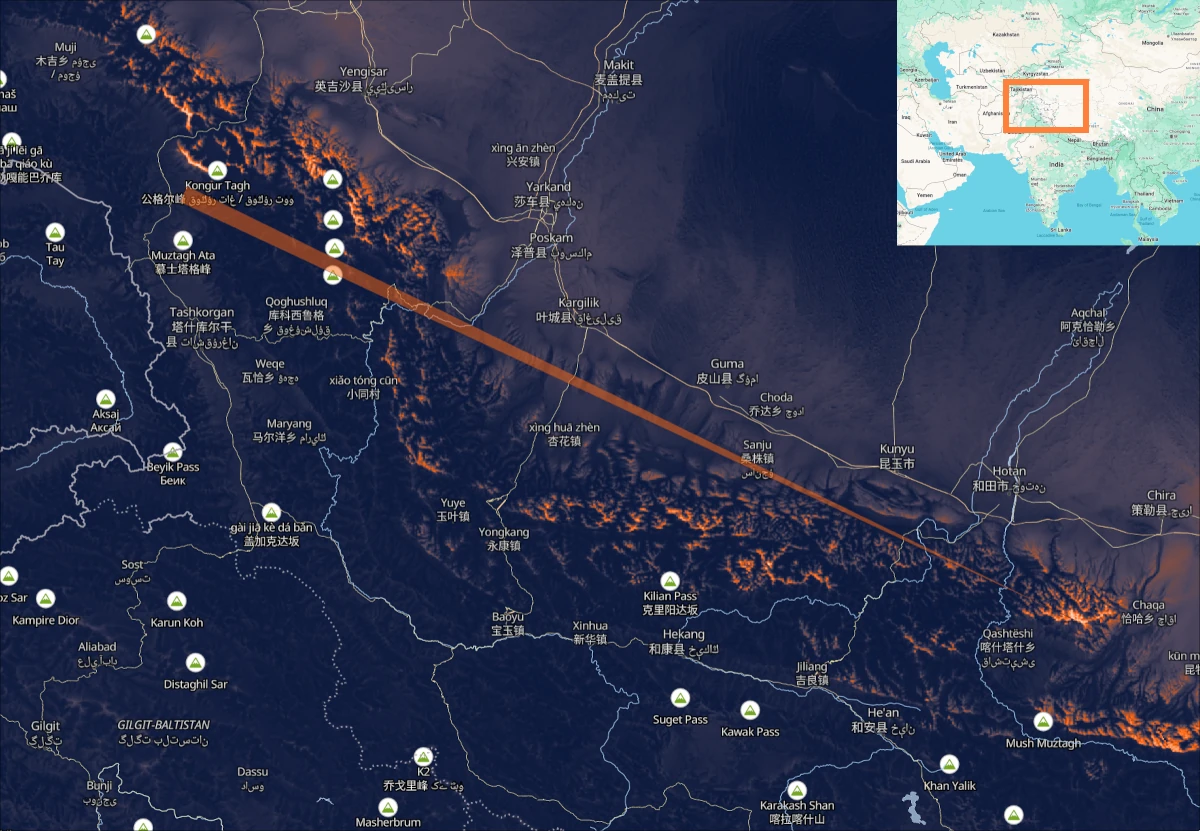
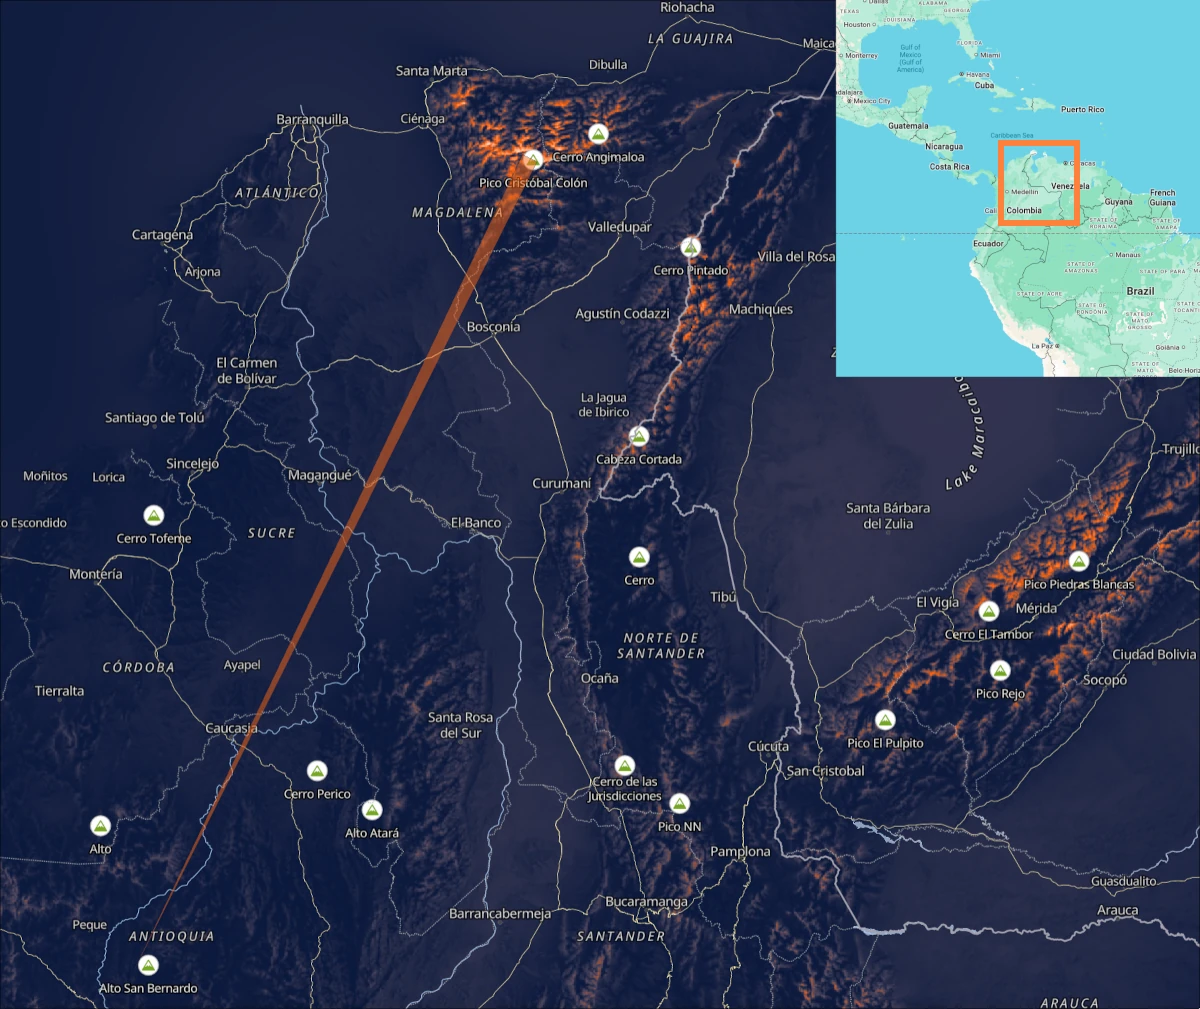
Remove extra Himalayan lines from Top 10
I think it's better to give publicity to other regions of the world.

diff --git a/website/src/TopLines.svelte b/website/src/TopLines.svelte
@@ -12,24 +12,9 @@
       '🇨🇳🇰🇬 Hindu Kush/Pik Dankova',
     ),
     new LongestLineH3(
-      new LngLat(80.29535675048828, 36.52555465698242),
-      506.8 * 1000,
-      '🇨🇳 Telkik Shan/Kongur Tagh',
-    ),
-    new LongestLineH3(
       new LngLat(-75.72223663330078, 6.75514030456543),
       504.1 * 1000,
       '🇨🇴 Antioquia/Pico Cristobal',
-    ),
-    new LongestLineH3(
-      new LngLat(78.37439727783203, 36.64704895019531),
-      494.0 * 1000,
-      '🇨🇳🇰🇬 Kunlun/Nochnaya Babochka',
-    ),
-    new LongestLineH3(
-      new LngLat(76.53218078613281, 36.620765686035156),
-      488.2 * 1000,
-      '🇨🇳 Hindu Kush/Tian Shan',
     ),
     new LongestLineH3(
       new LngLat(42.43996810913086, 43.34897232055664),
@@ -55,6 +40,21 @@
       new LngLat(71.8376235961914, 36.432369232177734),
       470.1 * 1000,
       '🇵🇰🇺🇿 Noshaq/Aghbai Kalon',
+    ),
+    new LongestLineH3(
+      new LngLat(162.6785430908203, -78.0618667602539),
+      463.8 * 1000,
+      '🇦🇶 Antarctica',
+    ),
+    new LongestLineH3(
+      new LngLat(46.122562408447266, 42.21756362915039),
+      462.9 * 1000,
+      '🇷🇺🇮🇷 Balakuri/Sabalan',
+    ),
+    new LongestLineH3(
+      new LngLat(146.864501953125, -6.220884323120117),
+      451.6 * 1000,
+      '🇵🇬 Kotewon/Suckling',
     ),
   ];
 </script>

diff --git a/website/src/Home.svelte b/website/src/Home.svelte
@@ -80,7 +80,7 @@
     }
 
     const upperLatitudeBound = 85;
-    const lowerLatitudeBound = -75;
+    const lowerLatitudeBound = -80;
 
     const worldSize = 512 * 2 ** zoom;
     const mercatorYOffset = viewportHeight / 2 / worldSize;

diff --git a/ssg/content/_index.md b/ssg/content/_index.md
@@ -12,16 +12,15 @@ Based on the method we detail [here](/faq/), we present the greatest view of all
 
 Longest lines of sight tend to group together around peaks and ridges. So the following are more of our own curated list rather than the technically correct runners up. We chose them based on being in notably different regions of the world.
 
-## [2. Telkik Shan to Kongur Tagh (507km) ↗](https://map.alltheviews.world/longest/80.29535675048828_36.52555465698242)
-![Second Longest Line Of Site](/longest_line_2.webp 'The second longest line of sight, at 507km, between the Telkik Shan and Kongur Tah')
-
-Another long line of sight in the Himalays, over the Tarim Basin and Tibetan Plateau. With such tall mountain
-ranges on either side, they're everywhere!
-
-## [3. Antioquia to Pico Cristobal (504km) ↗](https://map.alltheviews.world/longest/-75.72223663330078_6.75514030456543)
-![Third Longest Line Of Site](/longest_line_3.webp 'The third longest line of sight, at 504km, from Antioquia to Pico Crostobal in Colombia')
+## [2. Antioquia to Pico Cristobal (504km) ↗](https://map.alltheviews.world/longest/-75.72223663330078_6.75514030456543)
+![Second Longest Line Of Site](/longest_line_2.webp 'The second longest line of sight, at 504km, from Antioquia to Pico Crostobal in Colombia')
 
 Now we go right to the other side of the world to Colombia in South America. We've found a line of sight from the department of Antioquia to Pico Cristobal, Colombia's highest mountain.
+
+## [3. Mount Elbrus to the Pontic Mountains (483km) ↗](https://map.alltheviews.world/longest/42.43996810913086_43.34897232055664)
+![Third Longest Line Of Site](/longest_line_3.webp 'The third longest line of sight, at 483km, from Mount Elbrus in Russia to the Pontic Mountains in Turkey')
+
+Our pick for the third greatest view is from Mount Elbrus in Russia to the Pontic Moutains in Turkey. Notably Russia does not share a land border with Turkey, so it's interesting that you can still see one from the other.
 
 ## Explore For Yourself
 

diff --git a/ssg/content/faq.md b/ssg/content/faq.md
@@ -28,6 +28,10 @@ Yes. [The core algorithm](https://github.com/AllTheLines/CacheTVS). [The pipelin
 
 The sea actually has above average visibility, due to it generally not being blocked by hills and mountains. As such it can generate some often interesting and sometimes beautiful heatmaps, like around [the islands of South Korea](https://map.alltheviews.world/longest/126.9141495423105_33.956726689880966).
 
+## What Is The Longest View From Mount Everest?
+
+[It is 453.3km, looking South to the peaks of Parasnath in India](https://map.alltheviews.world/longest/86.92073822021484_27.988929748535156). Even though Mount Everest is the tallest mountain on Earth, its longest view is nearly 100km shorter than the world's longest.
+
 ## How Do I Contact You?
 
 💌 hello@alltheviews.world
